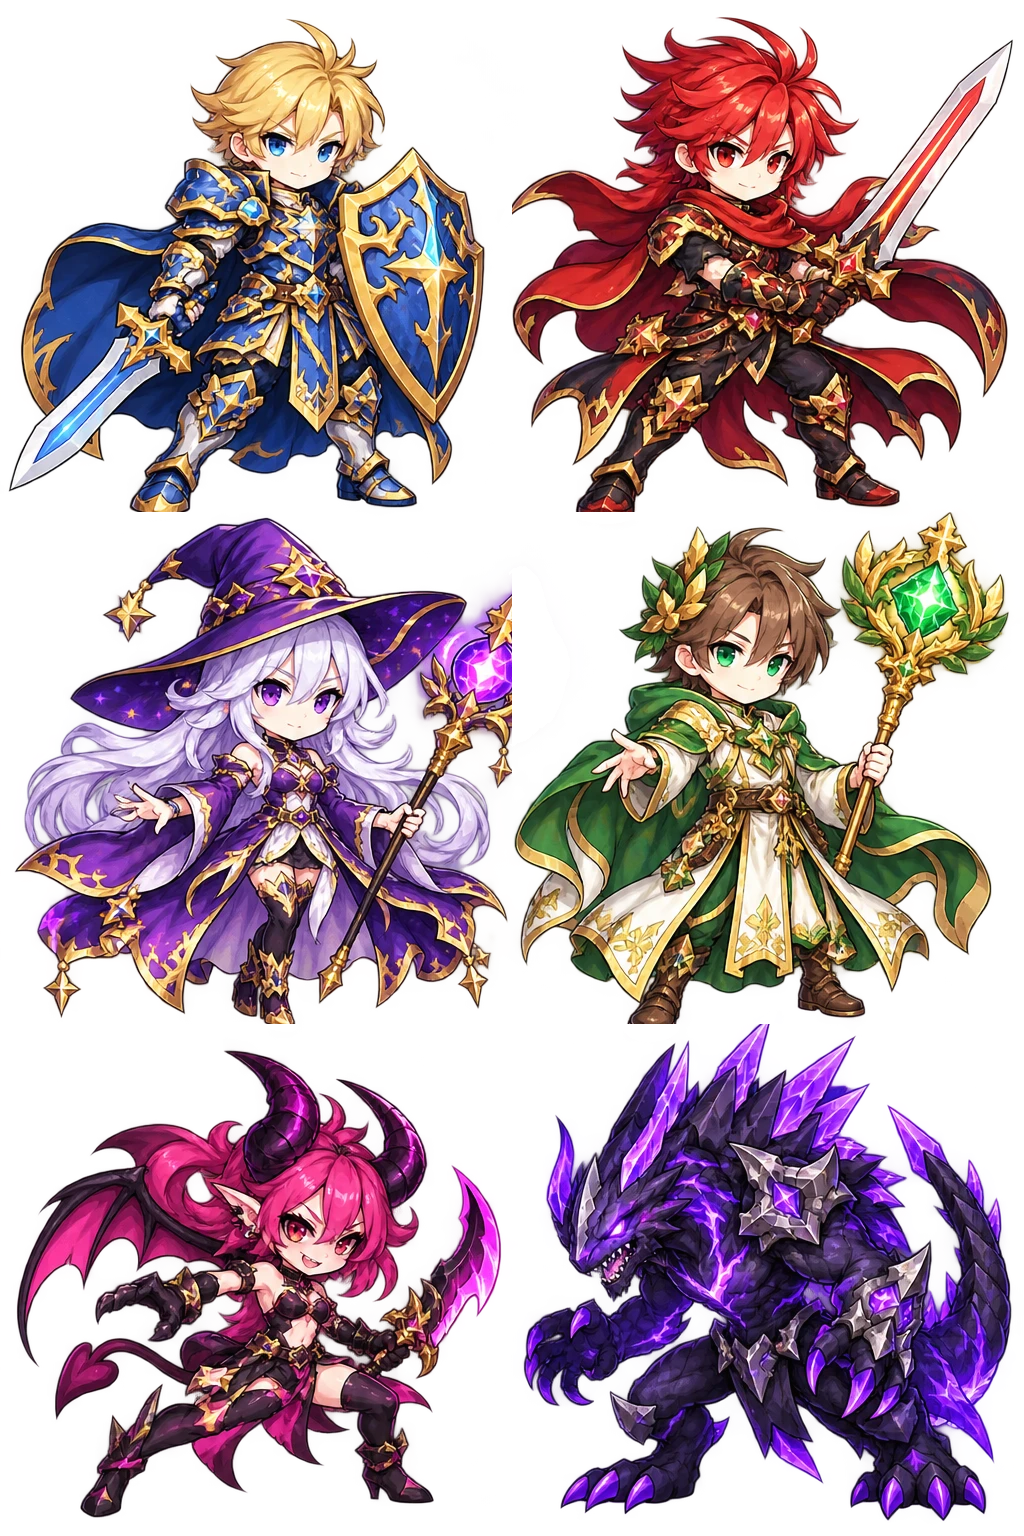
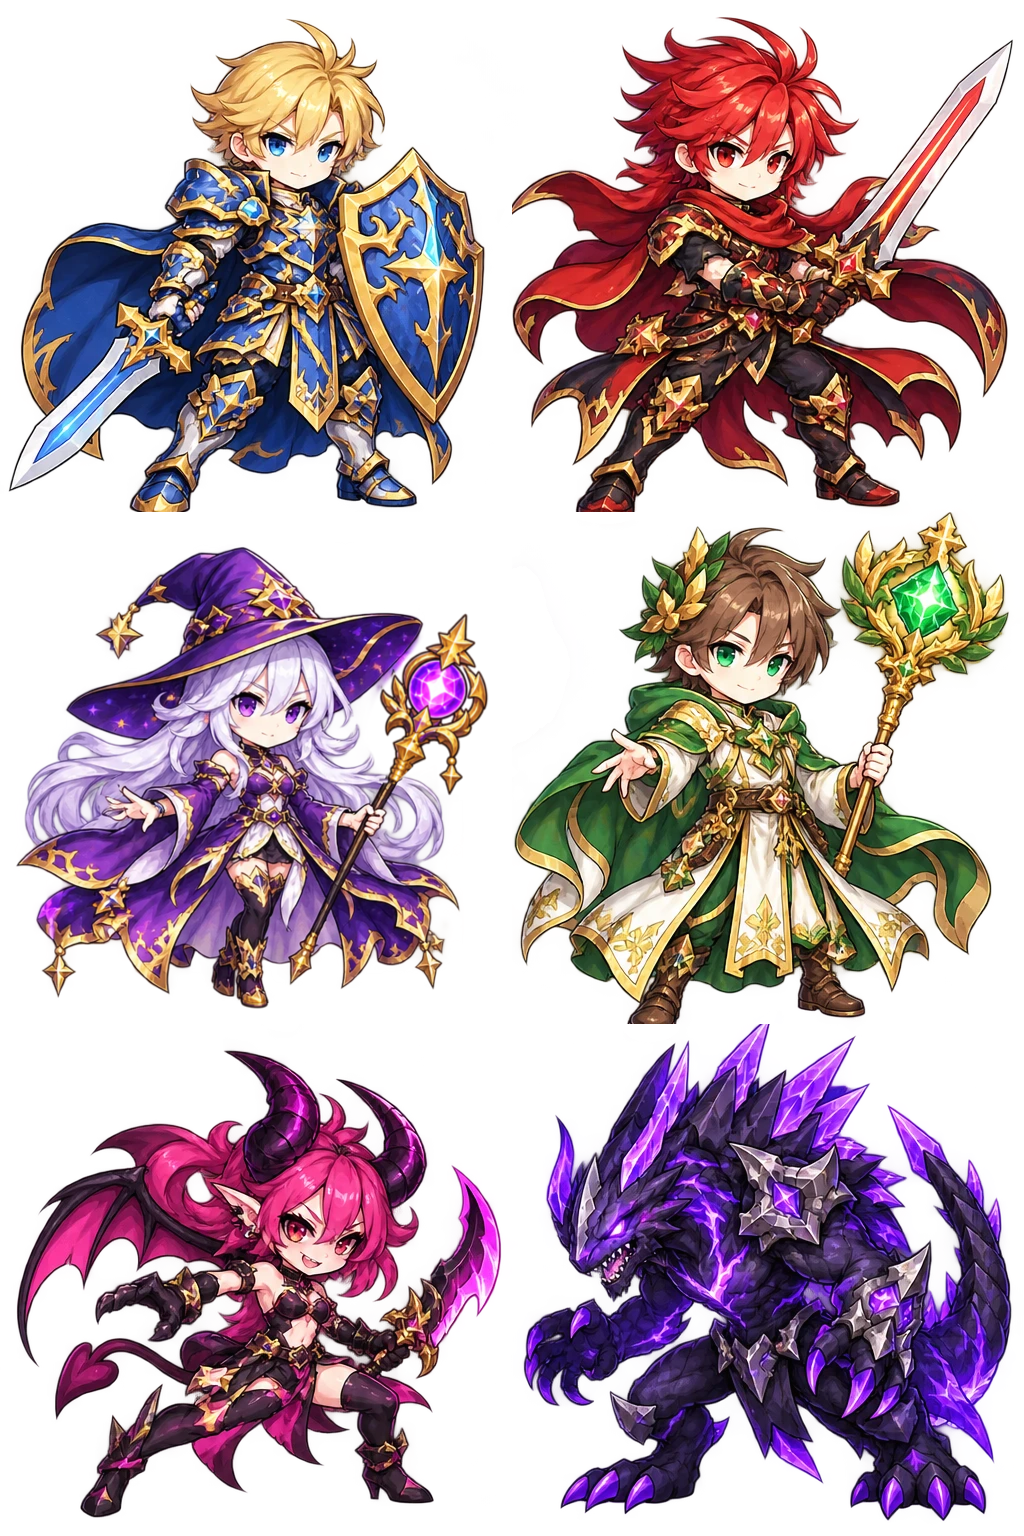
Restore Eira's static staff and hand off to Claude

Changed region(s): [[0.0, 0.3125, 0.5, 0.6875]]

diff --git a/src/game/visuals/assets.ts b/src/game/visuals/assets.ts
@@ -83,7 +83,7 @@ export const actorFootOrigins: Readonly<Record<string, number>> = {
 // Top row of each frame's painted figure (alpha > 40) in its 512 px cell, measured from the atlases: a field HP panel
 // sits just above it (owner 2026-10-22). Re-measure when an atlas changes.
 const figureTops: Readonly<Record<string, number>> = {
-  guardian: 19, tracer: 17, weaver: 0, healer: 0, raider: 0, brute: 0, garran: 37, mira: 37, toma: 37, sefa: 37, brann: 37, lio: 37, metta: 37, thiran: 37, lalin: 37, wila: 37, kael: 31, wynne: 37, astrid: 46, foe_tusker: 57, foe_sprite: 197, foe_stalker: 57, foe_mycon: 37, foe_golem: 17, foe_riftweaver: 37, foe_matriarch: 17, foe_juggernaut: 40, foe_sentinel: 5, foe_hunter: 35, foe_captain: 37, foe_dew_slime: 182, foe_ember_slime: 227, foe_ruin_bat: 218, foe_vargoth_guard: 133, foe_thorn_beetle: 191, foe_spore_puff: 107, foe_rift_channeler: 68, foe_rift_wisp: 127, foe_shard_crawler: 191,
+  guardian: 19, tracer: 17, weaver: 35, healer: 0, raider: 0, brute: 0, garran: 37, mira: 37, toma: 37, sefa: 37, brann: 37, lio: 37, metta: 37, thiran: 37, lalin: 37, wila: 37, kael: 31, wynne: 37, astrid: 46, foe_tusker: 57, foe_sprite: 197, foe_stalker: 57, foe_mycon: 37, foe_golem: 17, foe_riftweaver: 37, foe_matriarch: 17, foe_juggernaut: 40, foe_sentinel: 5, foe_hunter: 35, foe_captain: 37, foe_dew_slime: 182, foe_ember_slime: 227, foe_ruin_bat: 218, foe_vargoth_guard: 133, foe_thorn_beetle: 191, foe_spore_puff: 107, foe_rift_channeler: 68, foe_rift_wisp: 127, foe_shard_crawler: 191,
   foe_crystal_bat: 111, foe_ore_golem: 142, foe_possessed_worker: 152, foe_mine_overseer: 95, foe_crystal_eater: 167, foe_crystal_giant: 67, foe_crystal_fragment: 131,
   foe_water_spirit: lakeBossStill.bounds.y,
   foe_shadow_serpent: 141, foe_weeping_siren: 102,
@@ -104,7 +104,7 @@ type ArtName = 'units' | 'portraits' | 'ruins' | 'units_mercs' | 'portraits_merc
 // Bump a sheet's revision (SHA256 prefix) when its pixels change so browsers fetch the corrected art. `units` 2026-11-04:
 // pieces of Eira/Lyra/Seren that crossed into a neighbouring 512px cell were cleared (they showed in Seren's sheet).
 const ART_REV: Partial<Record<ArtName, string>> = {
-  units: '6263840f', units_foes3: lakeBossStill.revisions.units_foes3, portraits_foes3: lakeBossStill.revisions.portraits_foes3,
+  units: '379221f7', units_foes3: lakeBossStill.revisions.units_foes3, portraits_foes3: lakeBossStill.revisions.portraits_foes3,
   units_foes4: '0090da3a', portraits_foes4: '0156d8f8',
   units_worldboss: worldBossStills.unitsRevision, portraits_worldboss: worldBossStills.portraitsRevision,
 };

diff --git a/incoming/ART-CHAR-WEAVER-STILL-FIX-001/NOTES.md b/incoming/ART-CHAR-WEAVER-STILL-FIX-001/NOTES.md
@@ -1,0 +1,13 @@
+# ART-CHAR-WEAVER-STILL-FIX-001
+
+ภาพนิ่งเต็มตัวของไอรา (`weaver`) สำหรับ `units.webp` เฟรม 2 ที่ (0, 512)
+
+- `eira-still.png` คือภาพส่งมอบ 512×512 RGBA พื้นหลังโปร่งใส
+- `eira-seed.png` คือภาพอ้างอิงเดิม และ `eira-reference.png` คือท่าแรกจากแผ่นภาพดิบ ใช้ดูรูปหัวคทาและรองเท้าส่วนที่ถูกตัด
+- `eira-generated.png` คือผล ImageGen 1254×1254 จาก [พรอมต์](PROMPT.md) ใช้เฉพาะหัวคทาและปลายบูทด้านหน้า ส่วนใบหน้า ผม หมวก ชุด มือ และก้านคทาใช้พิกเซลจากเฟรมเดิมเป็นหลัก จัดตำแหน่งรอยต่อก่อนย่อภาพทั้งตัวเหลือ 90%
+- พิกเซลที่ alpha > 40 อยู่ในช่วง x16–487, y35–496 (รวมปลายทั้งสองด้าน) ขอบบนและขวาโปร่งใสสนิทอย่างน้อย 30 และ 23 พิกเซลตามลำดับ เฟรม 0 และ 1 มีภาพลงถึง y511 ส่วนไอราใช้เส้นพื้นตามเอกสารที่ y497
+- `units.webp` ยังมีขนาด 1024×1536 พิกเซล และเก็บแบบ lossless พร้อมค่า RGB ของพิกเซลโปร่งใส เทียบ SHA-256 ของ RGBA รายเซลล์แล้วเฟรม 0, 1, 3, 4 และ 5 เหมือนเดิมทุกพิกเซล เฟรม 2 ตรงกับ PNG ส่งมอบ ดู [ผลตรวจ](verification.json) ซึ่งใช้ขอบขวาและล่างแบบไม่รวมพิกเซลปลาย
+- ค่า `figureTops.weaver` เป็น 35 และ revision ของ `units` เป็น `379221f7` ขนาดไฟล์ลดจาก 1,984,922 เป็น 1,916,288 ไบต์
+- ตรวจภาพวางบนพื้นสว่างและมืด รวมถึงตรวจสัดส่วนจากจุดอ้างอิงศีรษะและลำตัวส่วนบนด้วย `scripts/unit-anatomy-audit.py` ได้สเกล 0.900
+- ตรวจ Chromium ที่ 390×844, 390×650 และ 650×900 ครบทั้งห้าแท็บตัวละครและป้ายจ้าง รวมถึงภาพนิ่งสำรองในสนามที่ 390×844 พบว่าหัวคทาครบและแถบ HP พ้นตัวภาพ
+- ผลเทสต์ในเครื่องผ่าน build, typecheck, lint, asset/งบภาพ 27 รายการ และ Chromium 13 รายการจากสองรอบที่เลือกเทสต์ ส่วน Vitest ชุดเต็มผ่าน 2,420 รายการ ข้าม 26 รายการ และหมดเวลา 180 วินาทีใน `boss-balance.test.ts` หนึ่งรายการ

diff --git a/docs/handoffs/CODEX-TO-CLAUDE.md b/docs/handoffs/CODEX-TO-CLAUDE.md
@@ -1,3 +1,11 @@
+## 2026-11-28 — ส่งให้ Claude นำเข้าภาพนิ่งไอรา (Codex · `codex/weaver-still-fix-intake`)
+
+- เจ้าของขอส่งชุดภาพนี้ให้ Claude นำเข้าเกม ใช้ commit จาก branch นี้กับ `feature/fateweave-initial-prototype` ตรวจสอบการเปลี่ยนแปลงบน branch เกมปัจจุบันก่อนนำเข้า
+- [ไฟล์ภาพ ต้นฉบับ พรอมต์ และผลตรวจ](../../incoming/ART-CHAR-WEAVER-STILL-FIX-001/NOTES.md) · ชุดนี้มี `units.webp` เฟรม 2 ที่ประกอบแล้ว รวมถึง `figureTops.weaver = 35` และ revision `379221f7` ใน `src/game/visuals/assets.ts`
+- เทียบ SHA-256 ของ RGBA รายเซลล์แล้วเฟรม 0, 1, 3, 4, 5 ตรงกันทุกพิกเซล ใช้เฉพาะภาพนิ่งของไอรา เก็บ `portraits.webp` กับ atlas ท่าศึกตาม branch เกม
+- Build, typecheck, lint, เทสต์ภาพ/งบ asset 27 และ Chromium 13 ผ่าน ตรวจผังสกิลที่ 390×844, 390×650, 650×900 รวมถึงป้ายจ้าง ตุ๊กตาอุปกรณ์ และแถบ HP ตอนใช้ภาพนิ่งสำรอง · Vitest ชุดเต็มหมดเวลา 180 วินาทีที่ `boss-balance.test.ts` หนึ่งรายการ (ผ่าน 2,420)
+- สถานะ: พร้อมให้ Claude นำเข้า branch เกม
+
 ## 2026-11-28 — PET-2 พรแผนที่ของสัตว์เลี้ยง 6 อย่าง (Claude · `claude/pet-2-blessings`)
 
 - OD-63: `core/world/pet-blessings.ts` (pure) + จุดต่อใน `world.ts`/`mine.ts`/`profile.ts` · โชค (หีบธรรมดา→หายาก 5/10%, สุ่ม 1 ครั้งจาก stream ของ run เฉพาะเมื่อพาตัวนี้) · หาของ (+แร่ 1/2 ทุกหีบ + ค้นค่ายร้าง) · มองไกล (รัศมีหมอก +1 รวมจุดออกเดินทางและเหมืองส่วนสว่าง) · เฝ้ายาม (โอกาสศึกสุ่ม −10/15% ของตัวเอง ปัดลง; อีลิท/บอส/เหตุการณ์ไม่โดน) · ไฟนำทาง (`petSightings` หีบ/เหตุการณ์ในหมอกระยะ ขอบหมอก+2/3 — ฟังก์ชันให้ UI, ไม่เซฟ) · ฟื้นฟู (ทุก 10 ก้าว HP 2/3%) · Lv1/Lv6 จาก `gameRules.pets` (`blessingLevel` 6, `renewalSteps` 10)

diff --git a/CURRENT_STATE.md b/CURRENT_STATE.md
@@ -28,6 +28,8 @@ Keep this file short; dated history lives in `docs/handoffs/CODEX-TO-CLAUDE.md` 
 
 ## Open items
 
+- ภาพนิ่งไอรา: พร้อมให้ Claude นำเข้าจาก `codex/weaver-still-fix-intake` · [ชุดภาพและผลตรวจ](incoming/ART-CHAR-WEAVER-STILL-FIX-001/NOTES.md)
+
 - Pets OD-63 (2026-11-28 “ตามคำแนะนำ”): plan [PET_SYSTEM_ANALYSIS_TH](docs/design/PET_SYSTEM_ANALYSIS_TH.md) approved; food bought with gold. **PET-1 done** (eggs from map 4/5 first clears, `hatchEgg`/`choosePet`, `run.pet`, ledger, save v71; [SYSTEMS_REFERENCE §Pets](docs/design/SYSTEMS_REFERENCE.md)). **PET-2 done** (six map blessings `core/world/pet-blessings.ts`, no save change, [sim](docs/validation/pets/PET2_SIM.md)). Owner approved ART-PET-002 (PR #55) 2026-11-28 “อนุมัติภาพสัตว์ทั้ง 6 ตัว”. Next PET-3.
 - Hero life: code breath/barrier/turn light/sparkles/slump (#376). Drawn victory cheers (LIFE-001): Aegis R3, Eira R3b, Seren R3 (#380) and Lyra R4 (#382), owner “อนุมัติ” 2026-11-27; small optional `<sheet>_victory` atlases. Aegis idle loop warped from the seed (W1b, #381, owner “อนุมัติ”); Lyra/Eira/Seren idle by the same tool next. LIFE-002 (victory for the other 11; Odran/Isolde parked) prompt sent to Codex. [Validation](docs/validation/hero-life-2026-11-27/README_TH.md), [brief](docs/handoffs/CODEX-HERO-LIFE-TH.md).
 - Auto battle (OD-62): random battles + World Boss, device stop-HP/skill settings; numbers draft. [Validation](docs/validation/auto-battle/README_TH.md).

diff --git a/incoming/ART-CHAR-WEAVER-STILL-FIX-001/PROMPT.md b/incoming/ART-CHAR-WEAVER-STILL-FIX-001/PROMPT.md
@@ -1,0 +1,5 @@
+# ImageGen prompt
+
+Input 1 is `eira-seed.png`. Input 2 is `eira-reference.png`, a crop of the upper-left pose in `../ART-UNIT-ANIMATION-A1-001/eira-raw.png`. Transparent background was enabled.
+
+Edit reference 1, the actual shipped 512px Eira (weaver) full-body sprite. Reference 2 is a smaller exact-pose reference showing the complete staff and feet; use it only to match the elements missing beyond the right and bottom crop of reference 1. Priority is preserving exactly the entire face, the pose, camera angle, arms and fingers, silhouette, painting, placement of stars, shading, anatomy and costume of reference 1. Only repair the missing right-hand portion of the golden staff head, following reference 2: whole glowing faceted purple orb, golden claw frame that wraps it, golden top star and small pointed gold side ornament(s), and repair the very bottom of the boot if needed. Keep pure transparent background, with clean alpha including inside negative spaces and no checkerboard, scenic lighting, haze, background, particles, text, UI or cast shadow. Give the sprite at least 3 percent clear padding above and to the right; resize the whole figure proportionally to ~90% of cell height, centered and standing near its bottom. The new parts should be faithful continuations, connected seamlessly to the existing structure. Preserve the existing crisp dark linework and faceted game-sprite style. Output a single transparent square; it will be downsampled to 512×512 if necessary.
